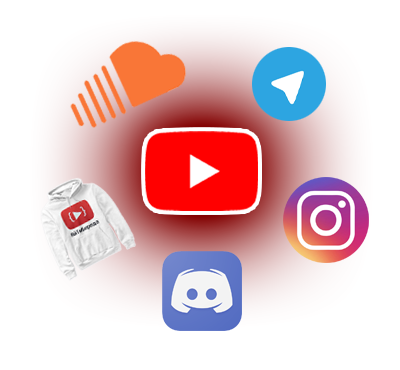
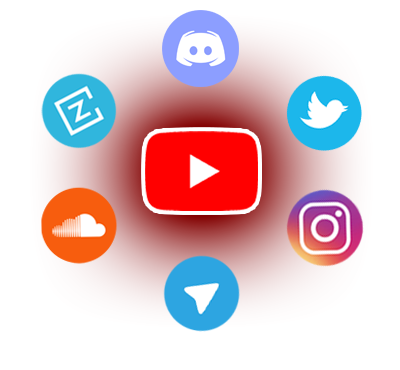
Update itbeard.com pages info & add stickers page

diff --git a/Itbeard.Site.WebAssembly/wwwroot/css/App.min.css b/Itbeard.Site.WebAssembly/wwwroot/css/App.min.css
@@ -1,1 +1,1 @@
-#contacts{padding:0;}#contacts>*{padding:0 var(--container-padding);}#contacts section.content{display:flex;flex-direction:column;justify-content:center;}#contacts #first_slide{background:url("/images/main-recources.png") 25%/auto auto no-repeat;}#contacts #first_slide .links a{font-style:italic;text-decoration:none;}#contacts #first_slide .links a:hover{text-decoration:underline;}#contacts #first_slide .links span{font-weight:bold;}#contacts #first_slide .links.youtube span{color:#f00;}#contacts #first_slide .links.soundcloud span{color:#ff8714;}#contacts #first_slide .links.discord span{color:#6d8cf6;}#contacts #first_slide .links.telegram span{color:#2a9dd6;}#contacts #first_slide .links.instagram span{color:#c53189;}#contacts #first_slide .links.twitter span{color:#1da1f2;}#contacts #second_slide{background:url("/images/email-post.png") 73%/auto auto no-repeat;background-color:#620067;min-height:100vh;}#contacts #second_slide>section{min-height:100vh;}#contacts #second_slide .links{margin-bottom:30px;}#contacts #second_slide .links a{text-decoration:none;}#contacts #second_slide .links a:hover{text-decoration:underline;}#contacts #second_slide .links>div{font-weight:bold;margin-left:30px;margin-top:10px;}#contacts #second_slide .links span{font-style:italic;}#contacts #third_slide{background:url("/images/other-recources.png") 25%/auto auto no-repeat;min-height:100vh;}#contacts #third_slide>section{min-height:100vh;}#contacts #third_slide .links a{font-style:italic;text-decoration:none;}#contacts #third_slide .links a:hover{text-decoration:underline;}#contacts #third_slide .links span{font-weight:bold;}#contacts #third_slide .links.youtube span{color:#f00;}#contacts #third_slide .links.telegram span{color:#2a9dd6;}#contacts #third_slide .links.yandex span{color:#ff8714;}#contacts #third_slide .links.merch span{color:#ff0;}#contacts #third_slide .links.apple span{color:#fa6755;}#contacts #third_slide .links.vk span{color:#5181b8;}#contacts #third_slide .links.facebook span{color:#4867aa;}#contacts #third_slide .links.linkedin span{color:#0a66c2;}@media screen and (max-width:767px){#contacts .presentation{padding:0 !important;}#contacts .presentation:before{content:"";position:absolute;top:0;left:0;height:100%;}#contacts .presentation .content{width:100%;background-color:rgba(0,0,0,.7);min-height:100vh;}#contacts #second_slide .links{margin-left:30px;}}#landing{padding:0;}#landing>*{padding:0 var(--container-padding);}#landing .parting-words{color:#00bfff;}#landing #about{background:url("/images/about.jpg") left/auto 100% no-repeat var(--color-background-dark);}#landing #interview{--theme:#f2fa41;background:url("/images/interviews.jpg") top/cover;}#landing #know{--theme:#0494d3;background:url("/images/knowhow.jpg") top/cover;}#landing #streams{--theme:#e91b1b;background:url("/images/streams.jpg") top/cover;}@media screen and (max-width:767px){#landing #about{padding:0 !important;}#landing .presentation:before{content:"";position:absolute;top:0;left:0;width:100%;height:100%;}#landing #interview{background-position:15% 0;}#landing #know{background-position:55% 0;}#landing #streams{background-position:75% 0;}#landing #other>h1{margin-top:25px;}}#partnership{padding:0;}#partnership .presentation{min-height:100vh;}#partnership>*{padding:0 var(--container-padding);}#partnership section.content{display:flex;flex-direction:column;justify-content:center;}#partnership b{color:#00bfff;}#partnership a{text-decoration:none;}#partnership a:hover{text-decoration:underline;}#partnership .email{color:#ff8714;font-weight:bold;}#partnership #statistics{--theme:#f2fa41;background:url("/images/statistics.png") 25%/auto auto no-repeat;}#partnership #statistics .links a{font-style:italic;text-decoration:none;}#partnership #statistics .links a:hover{text-decoration:underline;}#partnership #statistics .links span{font-weight:bold;}#partnership #statistics .links.youtube span{color:#f00;}#partnership #statistics .links.soundcloud span{color:#ff8714;}#partnership #statistics .links.discord span{color:#6d8cf6;}#partnership #statistics .links.telegram span{color:#2a9dd6;}#partnership #statistics .links.instagram span{color:#c53189;}#partnership #not_commerce{background:url("/images/youtube.png") 73%/auto auto no-repeat;background-color:#003475;}#partnership #commerce{background:url("/images/partnership.png") 25%/auto auto no-repeat;}#partnership #commerce ul li{margin-bottom:10px;}@media screen and (max-width:767px){#partnership .presentation{padding:0 !important;}#partnership .presentation:before{content:"";position:absolute;top:0;left:0;height:100%;}#partnership .presentation .content{width:100%;min-height:100vh;}#partnership #not_commerce .links{margin-left:30px;}}#sponsorship{padding:0;}#sponsorship .presentation{min-height:100vh;}#sponsorship ul li{margin-bottom:10px;}#sponsorship .orange:hover{color:#ffa500;}#sponsorship>*{padding:0 var(--container-padding);}#sponsorship section.content{display:flex;flex-direction:column;justify-content:center;}#sponsorship b{color:#00bfff;}#sponsorship a{text-decoration:none;}#sponsorship a:hover{text-decoration:underline;}#sponsorship .email{color:#ff8714;font-weight:bold;}#sponsorship #info{--theme:#f2fa41;background:url("/images/sponsorship.png") 25%/auto auto no-repeat;}#sponsorship #info .links a{font-style:italic;text-decoration:none;}#sponsorship #info .links a:hover{text-decoration:underline;}#sponsorship #info .links span{font-weight:bold;}#sponsorship #info .links.youtube span{color:#f00;}#sponsorship #info .links.soundcloud span{color:#ff8714;}#sponsorship #info .links.discord span{color:#6d8cf6;}#sponsorship #info .links.telegram span{color:#2a9dd6;}#sponsorship #info .links.instagram span{color:#c53189;}#sponsorship #content{background:url("/images/content.png") 73%/auto auto no-repeat;background-color:#103b00;}#sponsorship #how_to{background:url("/images/howto.png") 25%/auto auto no-repeat;}@media screen and (max-width:767px){#sponsorship .presentation{padding:0 !important;}#sponsorship .presentation:before{content:"";position:absolute;top:0;left:0;height:100%;}#sponsorship .presentation .content{width:100%;background-color:rgba(0,0,0,.7);min-height:100vh;}#sponsorship .presentation #content{background-color:#003475;}#sponsorship #not_commerce .links{margin-left:30px;}}#hackathons_pbh{padding:0;}#hackathons_pbh>*{padding:0 var(--container-padding);}#hackathons_pbh section.content{display:flex;flex-direction:column;justify-content:center;}#hackathons_pbh .presentation{min-height:100vh;background:url("/images/fire.png") 25%/auto auto no-repeat;}#hackathons_pbh .presentation .content div{margin-bottom:40px;}#hackathons_pbh .presentation .content div span{font-weight:bold;color:#00bfff;}#hackathons_pbh .presentation .content div a{text-decoration:none;color:#00bfff;transition:.3s;font-weight:bold;color:#ff7300;}#hackathons_pbh .presentation .content div a:hover{text-decoration:underline;}@media screen and (max-width:767px){#hackathones_pbh .presentation{padding:0 !important;}#hackathones_pbh .presentation:before{content:"";position:absolute;top:0;left:0;height:100%;}#hackathones_pbh .presentation .content{width:100%;min-height:100vh;}}#hackathons{padding:0;}#hackathons>*{padding:0 var(--container-padding);}#hackathons section.content{display:flex;flex-direction:column;justify-content:center;}#hackathons .presentation{min-height:100vh;}#hackathons .presentation .content div{margin-bottom:40px;}#hackathons .presentation .content div span{font-weight:bold;color:#00bfff;}#hackathons .presentation .content div a{text-decoration:none;color:#00bfff;transition:.3s;font-weight:bold;color:#ff7300;}#hackathons .presentation .content div a:hover{text-decoration:underline;}@media screen and (max-width:767px){#hackathones_pbh .presentation{padding:0 !important;}#hackathones_pbh .presentation:before{content:"";position:absolute;top:0;left:0;height:100%;}#hackathones_pbh .presentation .content{width:100%;min-height:100vh;}}@media screen and (min-width:1200px){:root{--container-size:1140px;}}@media screen and (max-width:1199px){:root{--container-size:960px;}}@media screen and (max-width:991px){:root{--container-size:720px;}}@media screen and (max-width:767px){:root{--container-size:540px;}}@media screen and (max-width:575px){:root{--container-size:95vw;}}:root{--container-padding:calc((100% - var(--container-size))/2);--color-background-darker:#2d2d2d;--color-background-dark:#292929;--color-background-darkest:#252525;--color-logo:#085dec;--color-highlight:#0fa7fa;--color-selection:#57bdf5;--height-header:70px;}@font-face{font-family:"Press Start";src:local("Press Start 2P Regular"),url("/fonts/press-start.ttf") format("opentype");}html,body{padding:0;margin:0;}html{scroll-behavior:smooth;}app{display:flex;flex-direction:column;min-height:100vh;padding:0;margin:0;font-family:'Montserrat Alternates',sans-serif;background-color:var(--color-background-dark);color:#fff;}app *{position:relative;max-width:100%;box-sizing:border-box;}app *:focus,body *:active{outline:none;}app *::-moz-focus-inner{border:none;}app>*{padding:30px var(--container-padding);}::selection{text-shadow:none;text-decoration-color:var(--color-selection);background-color:#000;color:var(--color-selection);}a{color:#bbb;transition-duration:.3s;transition-property:text-shadow,color;}a:hover{text-shadow:0 0 5px var(--color-highlight);color:var(--color-highlight);}h1,h2,h3,h4,h5,h6,p{margin:0;}button{padding:0;border:none;background-color:transparent;color:inherit;}button:hover{cursor:pointer;}app>section{background-color:var(--color-background-darker);}app>section+section{margin-top:1px;}#header{display:flex;justify-content:space-between;align-items:center;height:var(--height-header);padding-top:10px;padding-bottom:10px;z-index:2;background-color:var(--color-background-darkest);}#header:before{content:"";position:absolute;top:0;left:0;width:100%;height:100%;z-index:1;background-color:var(--color-background-darkest);}#header>*{z-index:1;}#header>.logo{display:flex;align-items:center;height:100%;text-decoration:none;text-shadow:2px 2px 0 var(--color-logo);font:20px "Press Start";color:#fff;transition:.1s text-shadow;}#header>.logo:hover{text-shadow:0 2px 0 var(--color-logo);}#header>.logo>img{display:inline-block;height:100%;border-radius:100%;margin-right:10px;}#header>.menu-toggle{position:absolute;display:flex;flex-direction:column;justify-content:space-around;align-items:center;width:40px;height:40px;padding:5px;visibility:hidden;transition:.3s color;}#header>.menu-toggle>span{width:30px;height:2px;background-color:#fff;transition-duration:.3s;transition-property:opacity,background-color,transform;}#header>.menu-toggle:hover>span{background-color:var(--color-highlight);}#header>.menu-toggle.active>span:nth-child(1){transform:translateY(10px) rotate(45deg);}#header>.menu-toggle.active>span:nth-child(2){opacity:0;}#header>.menu-toggle.active>span:nth-child(3){transform:translateY(-10px) rotate(-45deg);}#header>nav{display:flex;justify-content:space-between;margin-left:50px;}#header>nav>a{padding:10px;margin:0 20px;text-decoration:none;font-size:18px;color:#fff;transition-property:box-shadow,text-shadow,color;transition:.5s;}#header>nav>a.active{color:var(--color-highlight);}#header>nav>a:hover{color:var(--color-highlight);box-shadow:0 11px 10px -10px var(--color-highlight);text-shadow:0 0 3px var(--color-highlight);}#header>nav>a:first-child{margin-left:0;}#header>nav>a:last-child{margin-right:0;}.presentation{--theme:var(--color-highlight);display:flex;align-items:center;min-height:100vh;background-repeat:no-repeat;}.presentation-first{min-height:calc(100vh - var(--height-header));}.presentation:not(.no-bg)>.content{padding:20px;border:2px solid var(--theme);box-shadow:0 0 10px 0 var(--theme);border-radius:15px;background-color:rgba(0,0,0,.6);}.presentation>.content{width:50%;}.presentation>.content.left{margin-right:55%;}.presentation>.content.right{margin-left:55%;}.presentation>.content.center{margin:0 auto;}.presentation>.content>h1{margin-bottom:20px;font-size:40px;}.presentation>.content>p{font-size:17px;margin:10px 0;}.presentation>.content>.btn-bottom{display:block;max-width:none;height:50px;border-top:2px solid var(--theme);margin:15px -20px -20px -20px;display:flex;justify-content:center;align-items:center;text-decoration:none;color:#fff;transition-property:text-shadow,background-color,color;border-radius:0 0 15px 15px;}.presentation>.content>.btn-bottom:hover{text-shadow:0 0 10px var(--theme);background-color:#111;color:var(--theme);}#other>h1{margin-bottom:25px;font-size:30px;text-align:center;background-color:#252525;color:#fff;border-radius:7px;padding:7px;}#other>.content{display:flex;flex-wrap:wrap;justify-content:space-between;}#other>.content>.article{display:flex;flex-direction:column;margin-bottom:20px;width:32%;padding:30px;text-align:left;text-decoration:none;background-color:var(--color-background-darkest);color:#fff;transition-duration:.5s;transition-property:box-shadow,background-color,color,transform;border-radius:10px;}#other>.content>.article:hover{box-shadow:0 0 10px 5px rgba(255,255,2,.7);text-shadow:none;transform:translateY(-10px);}#other>.content>.article>img{min-height:256px;object-fit:contain;padding:15px 0;}#other>.content>.article>h1{font-size:22px;background-color:rgba(255,255,2,.1);color:#ffff02;text-align:center;border-radius:3px;padding:3px;}#other>.content>.article>p{font-size:17px;margin:15px 0;}#footer{flex:auto;display:flex;padding-top:30px;padding-bottom:30px;background-color:var(--color-background-darkest);color:#fff;justify-content:center;flex-direction:column;}#footer .social{display:flex;justify-content:center;flex-wrap:wrap;}#footer .social>a{display:flex;justify-content:center;align-items:center;width:50px;height:50px;border:2px solid #fff;margin:15px;text-decoration:none;color:#fff;transition-duration:.3s;transition-property:border-color,box-shadow,color;}#footer .social>i{transition-duration:.3s;transition-property:border-color,box-shadow,color;}#footer .social>a:hover{border-color:var(--color-highlight);box-shadow:0 0 5px 3px var(--color-highlight);text-shadow:none;color:var(--color-highlight);}#footer .social>a.youtube:hover{border-color:#f00;box-shadow:0 0 5px 3px #f00;text-shadow:none;color:#f00;}#footer .social>a.soundcloud:hover{border-color:#ff8714;box-shadow:0 0 5px 3px #ff8714;text-shadow:none;color:#ff8714;}#footer .social>a.discord:hover{border-color:#6d8cf6;box-shadow:0 0 5px 3px #6d8cf6;text-shadow:none;color:#6d8cf6;}#footer .social>a.telegram:hover{border-color:#2a9dd6;box-shadow:0 0 5px 3px #2a9dd6;text-shadow:none;color:#2a9dd6;}#footer .social>a.instagram:hover{border-color:#c53189;box-shadow:0 0 5px 3px #c53189;text-shadow:none;color:#c53189;}#footer .fab{font-size:25px;}#footer .thanks{font-size:10px;text-align:center;margin-top:20px;}@media screen and (max-width:991px){#header>.menu-toggle{position:relative;visibility:inherit;}#header>nav{position:absolute;top:70px;left:0;width:100%;padding:10px;margin:0;z-index:0;background-color:var(--color-background-darkest);transform:translateY(-100%);transition:.5s transform;}#header>nav.opened{visibility:inherit;transform:none;}#header>nav>a{flex:auto;margin:0;text-align:center;}#header>nav>a:hover{box-shadow:none;}.presentation>.content{width:auto;}.presentation>.content.left{margin-right:50%;}.presentation>.content.right{margin-left:50%;}#other>.content{flex-direction:column;}#other>.content>.article{width:100%;}#other>.content>.article+.article{margin-top:10px;}#other>.content>.article:hover{box-shadow:none;transform:none;}#other>.content>.article>img{height:auto;max-height:256px;}}@media screen and (max-width:767px){.presentation.no-bg{padding:0;}.presentation.no-bg>.content{display:flex;flex-direction:column;justify-content:center;min-height:calc(100vh - var(--height-header));padding:30px var(--container-padding);background-color:rgba(0,0,0,.47);}.presentation:not(.no-bg)>.content{padding:20px 5px;border-width:2px 0;box-shadow:none;}.presentation>.content.left,.presentation>.content.right{margin:0;}.presentation>.content>.btn-bottom{margin:15px -5px -20px -5px;}.presentation>.content>h1{margin-bottom:10px;padding:0 20px;}.presentation>.content>p{padding:0 40px;}}@media screen and (max-width:575px){#header>.logo{font-size:16px;}#header>nav{flex-direction:column;}.presentation:before{content:"";position:absolute;top:0;left:0;width:100%;height:100%;}.presentation>.content>h1,#other>h1{font-size:25px;}#footer{flex-direction:column;}#footer>.text,#footer>.social{width:100%;}#footer>.text{order:1;align-items:center;text-align:center;}#footer>.social{justify-content:center;margin:0 0 10px 0;}}#blazor-error-ui{background:#ffffe0;bottom:0;box-shadow:0 -1px 2px rgba(0,0,0,.2);display:none;left:0;padding:.6rem 1.25rem .7rem 1.25rem;position:fixed;width:100%;z-index:1000;}#blazor-error-ui .dismiss{cursor:pointer;position:absolute;right:.75rem;top:.5rem;}
+#contacts{padding:0;}#contacts>*{padding:0 var(--container-padding);}#contacts section.content{display:flex;flex-direction:column;justify-content:center;}#contacts #first_slide{background:url("/images/main-recources.png") 25%/auto auto no-repeat;}#contacts #first_slide .links a{font-style:italic;text-decoration:none;}#contacts #first_slide .links a:hover{text-decoration:underline;}#contacts #first_slide .links span{font-weight:bold;}#contacts #first_slide .links.youtube span{color:#f00;}#contacts #first_slide .links.soundcloud span{color:#ff8714;}#contacts #first_slide .links.discord span{color:#6d8cf6;}#contacts #first_slide .links.telegram span{color:#2a9dd6;}#contacts #first_slide .links.instagram span{color:#c53189;}#contacts #first_slide .links.twitter span{color:#1da1f2;}#contacts #first_slide .links.communityz span{color:#30b6dd;}#contacts #second_slide{background:url("/images/email-post.png") 73%/auto auto no-repeat;background-color:#620067;min-height:100vh;}#contacts #second_slide>section{min-height:100vh;}#contacts #second_slide .links{margin-bottom:30px;}#contacts #second_slide .links a{text-decoration:none;}#contacts #second_slide .links a:hover{text-decoration:underline;}#contacts #second_slide .links>div{font-weight:bold;margin-left:30px;margin-top:10px;}#contacts #second_slide .links span{font-style:italic;}#contacts #third_slide{background:url("/images/other-recources.png") 25%/auto auto no-repeat;min-height:100vh;}#contacts #third_slide>section{min-height:100vh;}#contacts #third_slide .links a{font-style:italic;text-decoration:none;}#contacts #third_slide .links a:hover{text-decoration:underline;}#contacts #third_slide .links span{font-weight:bold;}#contacts #third_slide .links.youtube span{color:#f00;}#contacts #third_slide .links.telegram span{color:#2a9dd6;}#contacts #third_slide .links.yandex span{color:#ff8714;}#contacts #third_slide .links.merch span{color:#ff0;}#contacts #third_slide .links.apple span{color:#fa6755;}#contacts #third_slide .links.vk span{color:#5181b8;}#contacts #third_slide .links.facebook span{color:#4867aa;}#contacts #third_slide .links.linkedin span{color:#0a66c2;}@media screen and (max-width:767px){#contacts .presentation{padding:0 !important;}#contacts .presentation:before{content:"";position:absolute;top:0;left:0;height:100%;}#contacts .presentation .content{width:100%;background-color:rgba(0,0,0,.7);min-height:100vh;}#contacts #second_slide .links{margin-left:30px;}}#landing{padding:0;}#landing>*{padding:0 var(--container-padding);}#landing .parting-words{color:#00bfff;}#landing #about{background:url("/images/about.jpg") left/auto 100% no-repeat var(--color-background-dark);}#landing #interview{--theme:#f2fa41;background:url("/images/interviews.jpg") top/cover;}#landing #know{--theme:#0494d3;background:url("/images/knowhow.jpg") top/cover;}#landing #streams{--theme:#e91b1b;background:url("/images/streams.jpg") top/cover;}@media screen and (max-width:767px){#landing #about{padding:0 !important;}#landing .presentation:before{content:"";position:absolute;top:0;left:0;width:100%;height:100%;}#landing #interview{background-position:15% 0;}#landing #know{background-position:55% 0;}#landing #streams{background-position:75% 0;}#landing #other>h1{margin-top:25px;}}#stickers .info{padding-bottom:30px;}#stickers img{display:block;margin:0 auto 30px auto;border:5px solid #add8e6;border-radius:20px;}#stickers ul{margin-left:50px;}#stickers ul li{margin-bottom:15px;}#partnership{padding:0;}#partnership .presentation{min-height:100vh;}#partnership>*{padding:0 var(--container-padding);}#partnership section.content{display:flex;flex-direction:column;justify-content:center;}#partnership b{color:#00bfff;}#partnership a{text-decoration:none;}#partnership a:hover{text-decoration:underline;}#partnership .email{color:#ff8714;font-weight:bold;}#partnership #statistics{--theme:#f2fa41;background:url("/images/statistics.png") 25%/auto auto no-repeat;}#partnership #statistics .links a{font-style:italic;text-decoration:none;}#partnership #statistics .links a:hover{text-decoration:underline;}#partnership #statistics .links span{font-weight:bold;}#partnership #statistics .links.youtube span{color:#f00;}#partnership #statistics .links.soundcloud span{color:#ff8714;}#partnership #statistics .links.discord span{color:#6d8cf6;}#partnership #statistics .links.telegram span{color:#2a9dd6;}#partnership #statistics .links.instagram span{color:#c53189;}#partnership #not_commerce{background:url("/images/youtube.png") 73%/auto auto no-repeat;background-color:#003475;}#partnership #commerce{background:url("/images/partnership.png") 25%/auto auto no-repeat;}#partnership #commerce ul li{margin-bottom:10px;}@media screen and (max-width:767px){#partnership .presentation{padding:0 !important;}#partnership .presentation:before{content:"";position:absolute;top:0;left:0;height:100%;}#partnership .presentation .content{width:100%;min-height:100vh;}#partnership #not_commerce .links{margin-left:30px;}}#sponsorship{padding:0;}#sponsorship .presentation{min-height:100vh;}#sponsorship ul li{margin-bottom:10px;}#sponsorship .orange:hover{color:#ffa500;}#sponsorship>*{padding:0 var(--container-padding);}#sponsorship section.content{display:flex;flex-direction:column;justify-content:center;}#sponsorship b{color:#00bfff;}#sponsorship a{text-decoration:none;}#sponsorship a:hover{text-decoration:underline;}#sponsorship .email{color:#ff8714;font-weight:bold;}#sponsorship #info{--theme:#f2fa41;background:url("/images/sponsorship.png") 25%/auto auto no-repeat;}#sponsorship #info .links a{font-style:italic;text-decoration:none;}#sponsorship #info .links a:hover{text-decoration:underline;}#sponsorship #info .links span{font-weight:bold;}#sponsorship #info .links.youtube span{color:#f00;}#sponsorship #info .links.soundcloud span{color:#ff8714;}#sponsorship #info .links.discord span{color:#6d8cf6;}#sponsorship #info .links.telegram span{color:#2a9dd6;}#sponsorship #info .links.instagram span{color:#c53189;}#sponsorship #content{background:url("/images/content.png") 73%/auto auto no-repeat;background-color:#103b00;}#sponsorship #how_to{background:url("/images/howto.png") 25%/auto auto no-repeat;}@media screen and (max-width:767px){#sponsorship .presentation{padding:0 !important;}#sponsorship .presentation:before{content:"";position:absolute;top:0;left:0;height:100%;}#sponsorship .presentation .content{width:100%;background-color:rgba(0,0,0,.7);min-height:100vh;}#sponsorship .presentation #content{background-color:#003475;}#sponsorship #not_commerce .links{margin-left:30px;}}#hackathons_pbh{padding:0;}#hackathons_pbh>*{padding:0 var(--container-padding);}#hackathons_pbh section.content{display:flex;flex-direction:column;justify-content:center;}#hackathons_pbh .presentation{min-height:100vh;background:url("/images/fire.png") 25%/auto auto no-repeat;}#hackathons_pbh .presentation .content div{margin-bottom:40px;}#hackathons_pbh .presentation .content div span{font-weight:bold;color:#00bfff;}#hackathons_pbh .presentation .content div a{text-decoration:none;color:#00bfff;transition:.3s;font-weight:bold;color:#ff7300;}#hackathons_pbh .presentation .content div a:hover{text-decoration:underline;}@media screen and (max-width:767px){#hackathones_pbh .presentation{padding:0 !important;}#hackathones_pbh .presentation:before{content:"";position:absolute;top:0;left:0;height:100%;}#hackathones_pbh .presentation .content{width:100%;min-height:100vh;}}#hackathons{padding:0;}#hackathons>*{padding:0 var(--container-padding);}#hackathons section.content{display:flex;flex-direction:column;justify-content:center;}#hackathons .presentation{min-height:100vh;}#hackathons .presentation .content div{margin-bottom:40px;}#hackathons .presentation .content div span{font-weight:bold;color:#00bfff;}#hackathons .presentation .content div a{text-decoration:none;color:#00bfff;transition:.3s;font-weight:bold;color:#ff7300;}#hackathons .presentation .content div a:hover{text-decoration:underline;}@media screen and (max-width:767px){#hackathones_pbh .presentation{padding:0 !important;}#hackathones_pbh .presentation:before{content:"";position:absolute;top:0;left:0;height:100%;}#hackathones_pbh .presentation .content{width:100%;min-height:100vh;}}@media screen and (min-width:1200px){:root{--container-size:1140px;}}@media screen and (max-width:1199px){:root{--container-size:960px;}}@media screen and (max-width:991px){:root{--container-size:720px;}}@media screen and (max-width:767px){:root{--container-size:540px;}}@media screen and (max-width:575px){:root{--container-size:95vw;}}:root{--container-padding:calc((100% - var(--container-size))/2);--color-background-darker:#2d2d2d;--color-background-dark:#292929;--color-background-darkest:#252525;--color-logo:#085dec;--color-highlight:#0fa7fa;--color-selection:#57bdf5;--height-header:70px;}@font-face{font-family:"Press Start";src:local("Press Start 2P Regular"),url("/fonts/press-start.ttf") format("opentype");}html,body{padding:0;margin:0;}html{scroll-behavior:smooth;}app{display:flex;flex-direction:column;min-height:100vh;padding:0;margin:0;font-family:'Montserrat Alternates',sans-serif;background-color:var(--color-background-dark);color:#fff;}app *{position:relative;max-width:100%;box-sizing:border-box;}app *:focus,body *:active{outline:none;}app *::-moz-focus-inner{border:none;}app>*{padding:30px var(--container-padding);}::selection{text-shadow:none;text-decoration-color:var(--color-selection);background-color:#000;color:var(--color-selection);}a{color:#bbb;transition-duration:.3s;transition-property:text-shadow,color;}a:hover{text-shadow:0 0 5px var(--color-highlight);color:var(--color-highlight);}h1,h2,h3,h4,h5,h6,p{margin:0;}button{padding:0;border:none;background-color:transparent;color:inherit;}button:hover{cursor:pointer;}app>section{background-color:var(--color-background-darker);}app>section+section{margin-top:1px;}#header{display:flex;justify-content:space-between;align-items:center;height:var(--height-header);padding-top:10px;padding-bottom:10px;z-index:2;background-color:var(--color-background-darkest);}#header:before{content:"";position:absolute;top:0;left:0;width:100%;height:100%;z-index:1;background-color:var(--color-background-darkest);}#header>*{z-index:1;}#header>.logo{display:flex;align-items:center;height:100%;text-decoration:none;text-shadow:2px 2px 0 var(--color-logo);font:20px "Press Start";color:#fff;transition:.1s text-shadow;}#header>.logo:hover{text-shadow:0 2px 0 var(--color-logo);}#header>.logo>img{display:inline-block;height:100%;border-radius:100%;margin-right:10px;}#header>.menu-toggle{position:absolute;display:flex;flex-direction:column;justify-content:space-around;align-items:center;width:40px;height:40px;padding:5px;visibility:hidden;transition:.3s color;}#header>.menu-toggle>span{width:30px;height:2px;background-color:#fff;transition-duration:.3s;transition-property:opacity,background-color,transform;}#header>.menu-toggle:hover>span{background-color:var(--color-highlight);}#header>.menu-toggle.active>span:nth-child(1){transform:translateY(10px) rotate(45deg);}#header>.menu-toggle.active>span:nth-child(2){opacity:0;}#header>.menu-toggle.active>span:nth-child(3){transform:translateY(-10px) rotate(-45deg);}#header>nav{display:flex;justify-content:space-between;margin-left:50px;}#header>nav>a{padding:10px;margin:0 20px;text-decoration:none;font-size:18px;color:#fff;transition-property:box-shadow,text-shadow,color;transition:.5s;}#header>nav>a.active{color:var(--color-highlight);}#header>nav>a:hover{color:var(--color-highlight);box-shadow:0 11px 10px -10px var(--color-highlight);text-shadow:0 0 3px var(--color-highlight);}#header>nav>a:first-child{margin-left:0;}#header>nav>a:last-child{margin-right:0;}.presentation{--theme:var(--color-highlight);display:flex;align-items:center;min-height:100vh;background-repeat:no-repeat;}.presentation-first{min-height:calc(100vh - var(--height-header));}.presentation:not(.no-bg)>.content{padding:20px;border:2px solid var(--theme);box-shadow:0 0 10px 0 var(--theme);border-radius:15px;background-color:rgba(0,0,0,.6);}.presentation>.content{width:50%;}.presentation>.content.left{margin-right:55%;}.presentation>.content.right{margin-left:55%;}.presentation>.content.center{margin:0 auto;}.presentation>.content>h1{margin-bottom:20px;font-size:40px;}.presentation>.content>p{font-size:17px;margin:10px 0;}.presentation>.content>.btn-bottom{display:block;max-width:none;height:50px;border-top:2px solid var(--theme);margin:15px -20px -20px -20px;display:flex;justify-content:center;align-items:center;text-decoration:none;color:#fff;transition-property:text-shadow,background-color,color;border-radius:0 0 15px 15px;}.presentation>.content>.btn-bottom:hover{text-shadow:0 0 10px var(--theme);background-color:#111;color:var(--theme);}#other>h1{margin-bottom:25px;font-size:30px;text-align:center;background-color:#252525;color:#fff;border-radius:7px;padding:7px;}#other>.content{display:flex;flex-wrap:wrap;justify-content:space-between;}#other>.content>.article{display:flex;flex-direction:column;margin-bottom:20px;width:32%;padding:30px;text-align:left;text-decoration:none;background-color:var(--color-background-darkest);color:#fff;transition-duration:.5s;transition-property:box-shadow,background-color,color,transform;border-radius:10px;}#other>.content>.article:hover{box-shadow:0 0 10px 5px rgba(255,255,2,.7);text-shadow:none;transform:translateY(-10px);}#other>.content>.article>img{min-height:256px;object-fit:contain;padding:15px 0;}#other>.content>.article>h1{font-size:22px;background-color:rgba(255,255,2,.1);color:#ffff02;text-align:center;border-radius:3px;padding:3px;}#other>.content>.article>p{font-size:17px;margin:15px 0;}#footer{flex:auto;display:flex;padding-top:30px;padding-bottom:30px;background-color:var(--color-background-darkest);color:#fff;justify-content:center;flex-direction:column;}#footer .social{display:flex;justify-content:center;flex-wrap:wrap;}#footer .social>a{display:flex;justify-content:center;align-items:center;width:50px;height:50px;border:2px solid #fff;margin:15px;text-decoration:none;color:#fff;transition-duration:.3s;transition-property:border-color,box-shadow,color;}#footer .social>i{transition-duration:.3s;transition-property:border-color,box-shadow,color;}#footer .social>a:hover{border-color:var(--color-highlight);box-shadow:0 0 5px 3px var(--color-highlight);text-shadow:none;color:var(--color-highlight);}#footer .social>a.youtube:hover{border-color:#f00;box-shadow:0 0 5px 3px #f00;text-shadow:none;color:#f00;}#footer .social>a.soundcloud:hover{border-color:#ff8714;box-shadow:0 0 5px 3px #ff8714;text-shadow:none;color:#ff8714;}#footer .social>a.discord:hover{border-color:#6d8cf6;box-shadow:0 0 5px 3px #6d8cf6;text-shadow:none;color:#6d8cf6;}#footer .social>a.telegram:hover{border-color:#2a9dd6;box-shadow:0 0 5px 3px #2a9dd6;text-shadow:none;color:#2a9dd6;}#footer .social>a.instagram:hover{border-color:#c53189;box-shadow:0 0 5px 3px #c53189;text-shadow:none;color:#c53189;}#footer .fab{font-size:25px;}#footer .thanks{font-size:10px;text-align:center;margin-top:20px;}@media screen and (max-width:991px){#header>.menu-toggle{position:relative;visibility:inherit;}#header>nav{position:absolute;top:70px;left:0;width:100%;padding:10px;margin:0;z-index:0;background-color:var(--color-background-darkest);transform:translateY(-100%);transition:.5s transform;}#header>nav.opened{visibility:inherit;transform:none;}#header>nav>a{flex:auto;margin:0;text-align:center;}#header>nav>a:hover{box-shadow:none;}.presentation>.content{width:auto;}.presentation>.content.left{margin-right:50%;}.presentation>.content.right{margin-left:50%;}#other>.content{flex-direction:column;}#other>.content>.article{width:100%;}#other>.content>.article+.article{margin-top:10px;}#other>.content>.article:hover{box-shadow:none;transform:none;}#other>.content>.article>img{height:auto;max-height:256px;}}@media screen and (max-width:767px){.presentation.no-bg{padding:0;}.presentation.no-bg>.content{display:flex;flex-direction:column;justify-content:center;min-height:calc(100vh - var(--height-header));padding:30px var(--container-padding);background-color:rgba(0,0,0,.47);}.presentation:not(.no-bg)>.content{padding:20px 5px;border-width:2px 0;box-shadow:none;}.presentation>.content.left,.presentation>.content.right{margin:0;}.presentation>.content>.btn-bottom{margin:15px -5px -20px -5px;}.presentation>.content>h1{margin-bottom:10px;padding:0 20px;}.presentation>.content>p{padding:0 40px;}}@media screen and (max-width:575px){#header>.logo{font-size:16px;}#header>nav{flex-direction:column;}.presentation:before{content:"";position:absolute;top:0;left:0;width:100%;height:100%;}.presentation>.content>h1,#other>h1{font-size:25px;}#footer{flex-direction:column;}#footer>.text,#footer>.social{width:100%;}#footer>.text{order:1;align-items:center;text-align:center;}#footer>.social{justify-content:center;margin:0 0 10px 0;}}#blazor-error-ui{background:#ffffe0;bottom:0;box-shadow:0 -1px 2px rgba(0,0,0,.2);display:none;left:0;padding:.6rem 1.25rem .7rem 1.25rem;position:fixed;width:100%;z-index:1000;}#blazor-error-ui .dismiss{cursor:pointer;position:absolute;right:.75rem;top:.5rem;}

diff --git a/Itbeard.Site.WebAssembly/Pages/Stickers/Stickers.scss b/Itbeard.Site.WebAssembly/Pages/Stickers/Stickers.scss
@@ -1,0 +1,19 @@
+#stickers {
+  .info{
+    padding-bottom: 30px;
+  }
+  img {
+    display: block;
+    margin: 0px auto 30px auto; 
+    border: 5px solid lightblue;
+    border-radius: 20px;
+  }
+  
+  ul {
+    margin-left: 50px;
+    
+    li {
+      margin-bottom: 15px;
+    }
+  }
+}

diff --git a/Itbeard.Site.WebAssembly/App.scss b/Itbeard.Site.WebAssembly/App.scss
@@ -1,5 +1,6 @@
 @import 'Pages/Contacts/Contacts';
 @import 'Pages/Landing/Landing';
+@import 'Pages/Stickers/Stickers';
 @import 'Pages/Partnership/Partnership';
 @import 'Pages/Sponsorship/Sponsorship';
 @import 'Pages/Hackathons/2020-05-09/Styles';

diff --git a/Itbeard.Site.WebAssembly/Pages/Contacts/Contacts.scss b/Itbeard.Site.WebAssembly/Pages/Contacts/Contacts.scss
@@ -51,6 +51,10 @@
             &.twitter span{
                 color: #1DA1F2;
             }
+            
+            &.communityz span{
+                color: #30B6DD;
+            }
         }
     }
     
